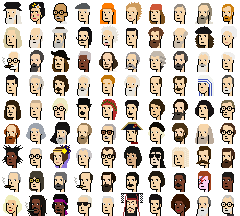
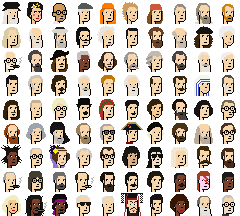
up genius

diff --git a/README.md b/README.md
@@ -69,6 +69,15 @@ Punkverse
 
 
 
+Pixel Punks "Hand-Drawn" One-by-One
+
+90 Genius series.   Download ![](i/genius-strip.png)   [**genius.png**](collection/genius.png) (~10k)
+
+
+
+
+
+
 ## Apes
 
 All 9 900 Bored Apes from the We Ape 24 series¹.  Download ![](i/boredapes-strip.png)  [**boredapes.png**](collection/boredapes.png) (~4.2 MB).  ++ Bonus: [**boredapes.csv**](https://github.com/cryptopunksnotdead/punks.attributes/tree/master/boredapes/) attribute rarity & popularity dataset.
